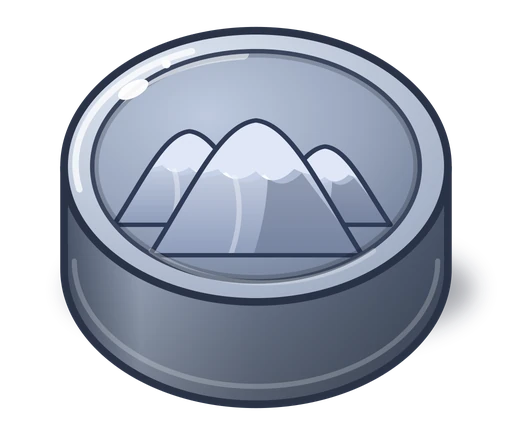
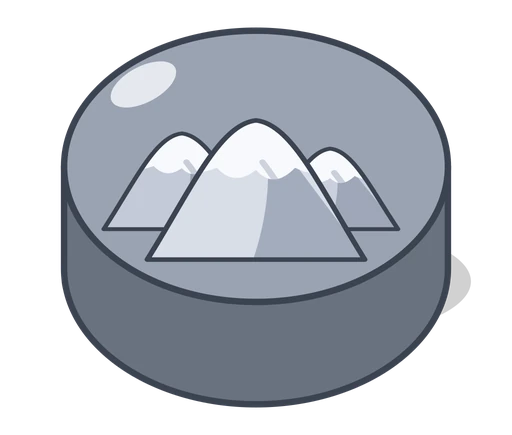
Thung Lũng Hòa Sắc: token phẳng như ảnh, ô lục giác đầu nhọn hướng lên, bảng đúng tỷ lệ
Claude-Session: https://claude.ai/code/session_01C6iMuhfBTXKhuhM3nstd77

diff --git a/games/thung-lung/art.js b/games/thung-lung/art.js
@@ -48,24 +48,25 @@ const TLART=(()=>{
   /* ----- bảng lục giác ----- */
   const TINT={rung:'#d6f0c8',nui:'#e0e3ea',dong:'#fff0af',nha:'#fad6cd',ho:'#cde8fa'};
   const escx=t=>String(t==null?'':t).replace(/[&<>"]/g,c=>({'&':'&amp;','<':'&lt;','>':'&gt;','"':'&quot;'}[c]));
+  const hexPtsP=(cx,cy,r)=>[0,1,2,3,4,5].map(i=>{ const a=(60*i+30)*Math.PI/180; return (cx+r*Math.cos(a)).toFixed(1)+','+(cy+r*Math.sin(a)).toFixed(1); }).join(' ');
   function boardSvg(B,o){ o=o||{}; const s=o.s||40, pad=s*.5, mini=!!o.mini;
-    const m=NEWART?s*.6:0, rb=NEWART&&!mini&&o.name!=null?s*1.15:0, dy0=NEWART?s*.6:0;   // m: lề khung gỗ, rb: chiều cao thanh tên
-    const W0=s*8+pad*2, H0=s*S3*5+pad*2, W=W0+m*2, H=H0+dy0+m*2+rb;
-    const ox=pad+s+m, oy=pad+s*S3*.5+dy0+m+rb;
-    const hl=o.hl||{}, cubeSz=s*1.05; let g='', up='';
+    const PT=NEWART, SQ3=Math.sqrt(3), m=NEWART?s*.6:0, rb=NEWART&&!mini&&o.name!=null?s*1.15:0, dy0=NEWART?s*.6:0;   // m: lề khung gỗ, rb: chiều cao thanh tên
+    const W0=PT?s*SQ3*5+pad*2:s*8+pad*2, H0=PT?s*(2+6)+pad*2:s*S3*5+pad*2, W=W0+m*2, H=H0+dy0+m*2+rb;
+    const ox=PT?pad+s*SQ3/2+m:pad+s+m, oy=PT?pad+s+dy0+m+rb:pad+s*S3*.5+dy0+m+rb;
+    const hl=o.hl||{}, cubeSz=s*1.05; let g='', up=''; const HP=PT?hexPtsP:hexPts;
     if(NEWART){ const fb=s*.38, rr=s*1.7;
       g+=`<rect x="${(fb*.2).toFixed(1)}" y="${(rb*.5+fb*.2).toFixed(1)}" width="${(W-fb*.4).toFixed(1)}" height="${(H-rb*.5-fb*.4).toFixed(1)}" rx="${rr.toFixed(1)}" fill="#b07d50"/><rect x="${fb.toFixed(1)}" y="${(rb*.5+fb).toFixed(1)}" width="${(W-fb*2).toFixed(1)}" height="${(H-rb*.5-fb*2).toFixed(1)}" rx="${(rr-fb*.8).toFixed(1)}" fill="#f0d5a0"/>`;
       if(!mini) [[1,1],[W-1,1],[1,H-1],[W-1,H-1]].forEach(c=>{ const cx=c[0]<W/2?fb+s*.55:W-fb-s*.55, cy=c[1]<H/2?rb*.5+fb+s*.55:H-fb-s*.55; g+=`<circle cx="${cx.toFixed(1)}" cy="${cy.toFixed(1)}" r="${(s*.13).toFixed(1)}" fill="#966640"/><circle cx="${cx.toFixed(1)}" cy="${cy.toFixed(1)}" r="${(s*.07).toFixed(1)}" fill="#d6aa78"/>`; });
       if(rb){ const nm=escx(o.name), fz=s*.5, w=Math.min(W*.8,Math.max(s*5,nm.length*fz*.62+s*1.6)), x0=(W-w)/2;
         g+=`<rect x="${(x0+2).toFixed(1)}" y="${(s*.1+4).toFixed(1)}" width="${w.toFixed(1)}" height="${(rb*.9).toFixed(1)}" rx="${(rb*.45).toFixed(1)}" fill="#785029"/><rect x="${x0.toFixed(1)}" y="${(s*.1).toFixed(1)}" width="${w.toFixed(1)}" height="${(rb*.9).toFixed(1)}" rx="${(rb*.45).toFixed(1)}" fill="#fce296" stroke="#b07d50" stroke-width="${(s*.1).toFixed(1)}"/><text x="${(W/2).toFixed(1)}" y="${(s*.1+rb*.45+fz*.36).toFixed(1)}" text-anchor="middle" font-size="${fz.toFixed(1)}" font-weight="700" fill="#603c1e" font-family="system-ui,Arial,sans-serif">${nm}</text>`; } }
-    TL.KEYS.forEach(k=>{ const [q,r]=k.split(',').map(Number), x=ox+s*1.5*q, y=oy+s*S3*(r+q/2), c=B[k]; const cl=hl[k]?' hl':'';
+    TL.KEYS.forEach(k=>{ const [q,r]=k.split(',').map(Number), x=PT?ox+s*SQ3*(r+q/2):ox+s*1.5*q, y=PT?oy+s*1.5*q:oy+s*S3*(r+q/2), c=B[k]; const cl=hl[k]?' hl':'';
       const base=hl[k]?'#fff3c8':(NEWART&&c?TINT[c.t]:'#eadcb8'), edge=NEWART&&c&&!hl[k]?'#c9b48a':'#c9b48a';
-      g+=`<g class="hx${cl}" data-hex="${k}"><polygon points="${hexPts(x,y+s*.1,s-1)}" fill="${edge}"/><polygon points="${hexPts(x,y,s-1)}" fill="${base}" stroke="${hl[k]?'#ffb703':'#cdb78a'}" stroke-width="${hl[k]?3.2:1.2}"/>`;
+      g+=`<g class="hx${cl}" data-hex="${k}"><polygon points="${HP(x,y+s*.1,s-1)}" fill="${edge}"/><polygon points="${HP(x,y,s-1)}" fill="${base}" stroke="${hl[k]?'#ffb703':'#cdb78a'}" stroke-width="${hl[k]?3.2:1.2}"/>`;
       let top='';
       if(c){ top+=disc(c.t,x,y,s*.86,c.h);
         if(c.cube!=null){ const gm=NEWART?tkGeom(s*.86,Math.min(c.h,IMGN[c.t])):null, cy2=NEWART?(y-gm.ht+gm.tf-cubeSz*.72):(y-cubeSz*.86);
           top+=`<g transform="translate(${x-cubeSz/2} ${cy2})"><rect x="${cubeSz*.08}" y="${cubeSz*.08}" width="${cubeSz*.84}" height="${cubeSz*.84}" rx="${cubeSz*.2}" fill="#fff" stroke="#8a5a2f" stroke-width="2"/>${animal(TL.A[c.cube].k,cubeSz).replace('<svg ','<svg x="0" y="0" ')}</g>`; } }
-      if(hl[k]) top+=`<polygon points="${hexPts(x,y,s*.5)}" fill="#ffb703" opacity=".25"/>`;
+      if(hl[k]) top+=`<polygon points="${HP(x,y,s*.5)}" fill="#ffb703" opacity=".25"/>`;
       if(NEWART){ g+='</g>'; up+=`<g class="hx${cl}" data-hex="${k}" data-y="${y}">${top}</g>`; } else { g+=top+'</g>'; } });
     if(NEWART){ const arr=up.split('<g class="hx').filter(Boolean).map(x=>'<g class="hx'+x).sort((a,b)=>(+/data-y="([\d.]+)"/.exec(a)[1])-(+/data-y="([\d.]+)"/.exec(b)[1])); g+=arr.join(''); }
     return `<svg class="thb" viewBox="0 0 ${W.toFixed(0)} ${H.toFixed(0)}" xmlns="http://www.w3.org/2000/svg">${g}</svg>`; }
